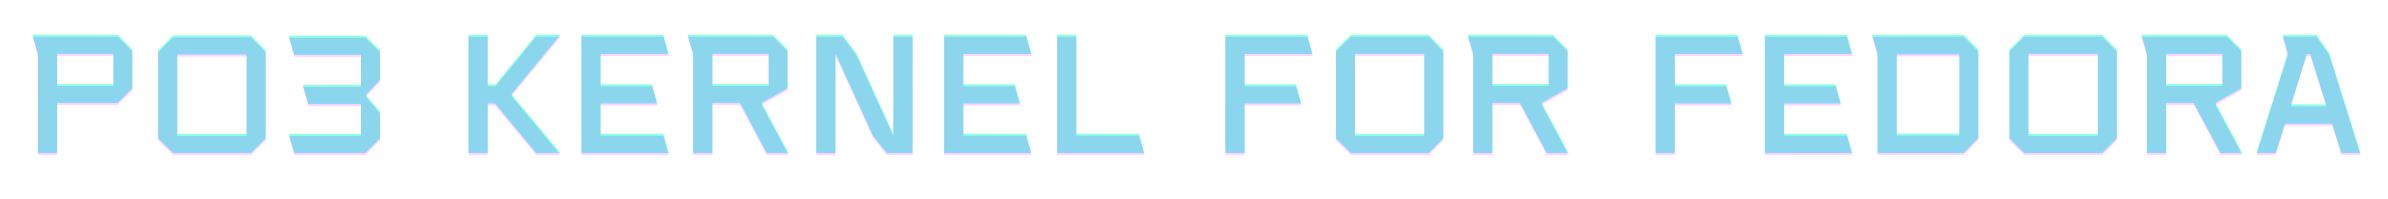
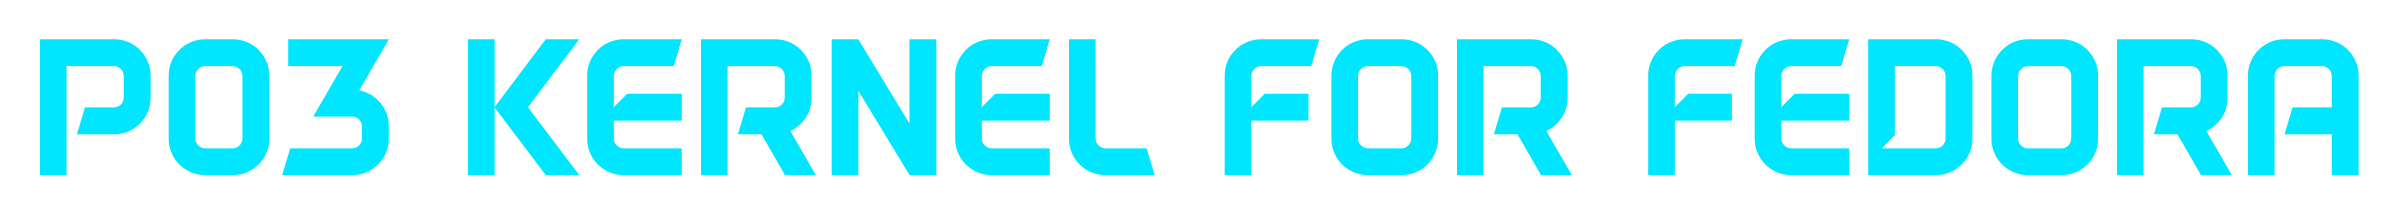
feat: more README.md decorations

diff --git a/README.md b/README.md
@@ -62,3 +62,10 @@ For nvidia, install using `sudo sh ./Nvidia.run --no-kernel-modules --no-dkms --
  - Bore patches from [Firelzrd](https://github.com/firelzrd/bore-scheduler)
  - ADIOS patches from [Firelzrd](https://github.com/firelzrd/adios)
  - Based on the specfile from [CachyOS for Fedora COPR](https://github.com/CachyOS/copr-linux-cachyos)
+
+---
+
+<div align="center">
+  <img src=".github/stoat-darkmode.png#gh-dark-mode-only" width="400">
+  <img src=".github/stoat-lightmode.png#gh-light-mode-only" width="400">
+</div>